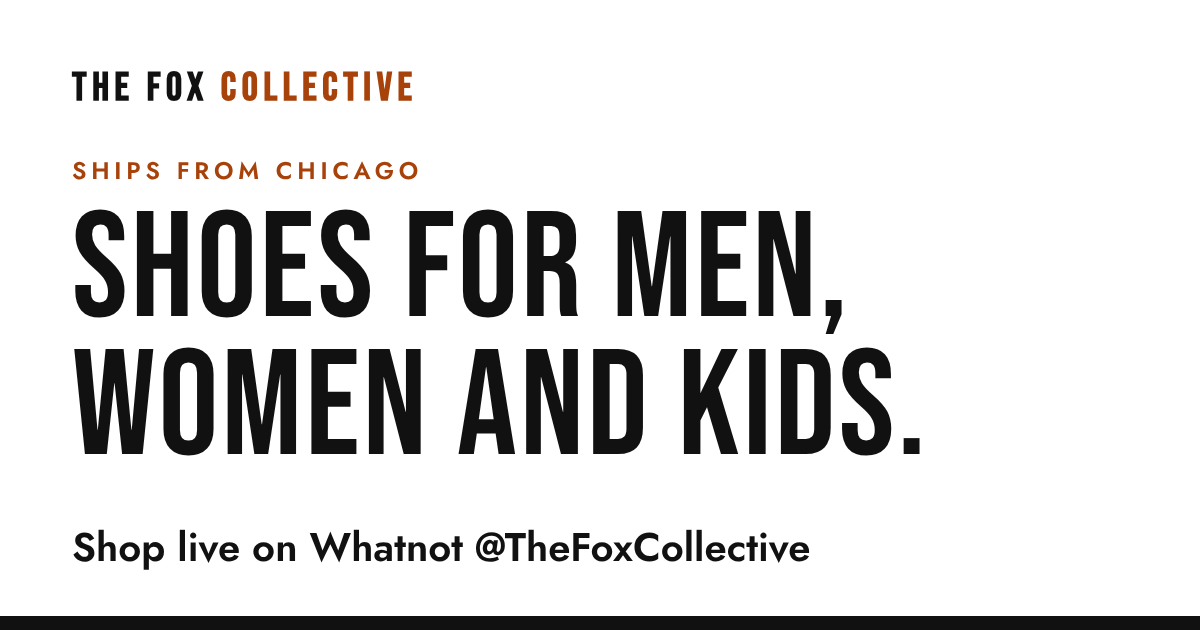
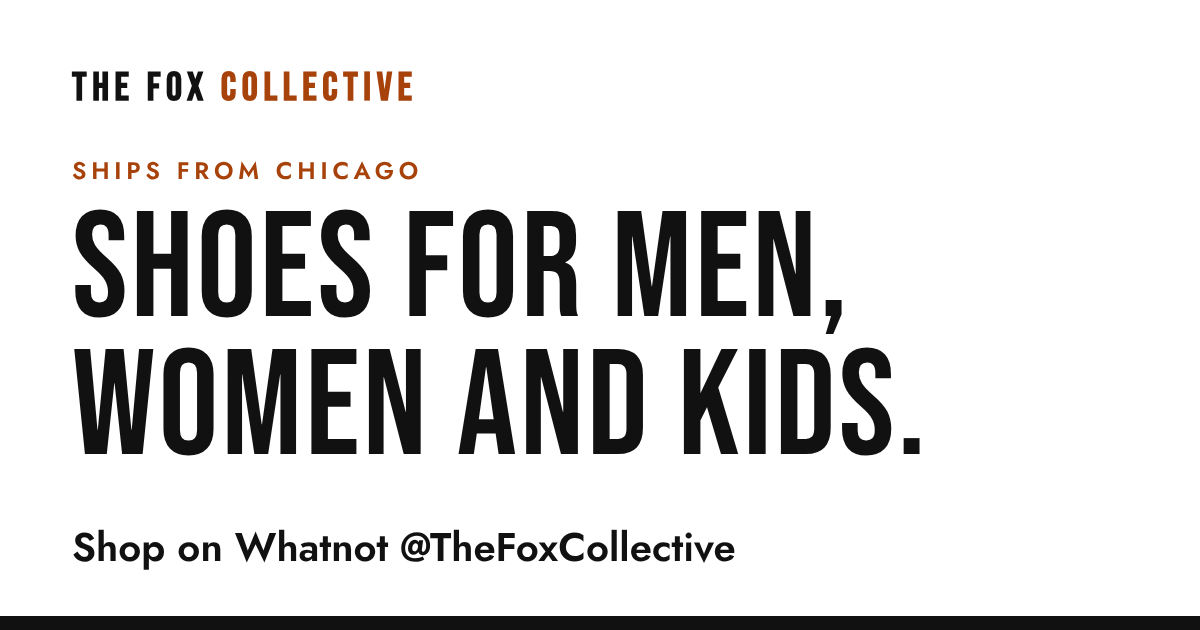
Front page, footer and search wording: Chicago footwear retailer, no location detail or show mentions
Claude-Session: https://claude.ai/code/session_013YMrY1SBmupQ3QgRcTJSum

Changed region(s): [[0.1233, 0.8444, 0.6783, 0.9048]]

diff --git a/product.html b/product.html
@@ -4,7 +4,7 @@
 <meta charset="utf-8">
 <meta name="viewport" content="width=device-width, initial-scale=1">
 <title>Shoes | The Fox Collective</title>
-<meta name="description" content="Sizes in stock at The Fox Collective. Sold live on Whatnot.">
+<meta name="description" content="Sizes in stock at The Fox Collective. New in the box, shipped from Chicago.">
 <link rel="canonical" href="https://foxcollective.org/shop.html">
 <meta name="theme-color" content="#ffffff">
 <link rel="icon" href="favicon.ico" sizes="48x48">
@@ -13,7 +13,7 @@
 <meta property="og:type" content="website">
 <meta property="og:site_name" content="The Fox Collective">
 <meta property="og:title" content="Shoes | The Fox Collective">
-<meta property="og:description" content="Sizes in stock at The Fox Collective. Sold live on Whatnot.">
+<meta property="og:description" content="Sizes in stock at The Fox Collective. New in the box, shipped from Chicago.">
 <meta property="og:url" content="https://foxcollective.org/shop.html">
 <meta property="og:image" content="https://foxcollective.org/img/og-home.png">
 <meta name="twitter:card" content="summary_large_image">
@@ -23,7 +23,7 @@
 </head>
 <body class="st" data-page="product">
 <a class="skip" href="#main">Skip to content</a>
-<div class="s-strip">Ships from Chicago. Live shows daily on Whatnot. <a href="https://www.whatnot.com/user/thefoxcollective" rel="noopener">Watch live</a></div>
+<div class="s-strip">New in the box. Ships from Chicago. <a href="https://www.whatnot.com/user/thefoxcollective" rel="noopener">Shop on Whatnot</a></div>
 <header class="s-hdr">
   <div class="w row">
     <a class="brand" href="index.html" aria-label="The Fox Collective, home"><img src="img/fox-mark.png" alt="" width="40" height="40">THE FOX <span>COLLECTIVE</span></a>
@@ -32,7 +32,7 @@
       <svg viewBox="0 0 24 24" fill="none" stroke="currentColor" stroke-width="2" aria-hidden="true"><circle cx="11" cy="11" r="7"/><path d="M20 20l-3.5-3.5"/></svg>
       <input id="s-q" type="search" name="q" placeholder="Search shoes and brands" autocomplete="off">
     </form>
-    <div class="s-links"><a href="https://www.whatnot.com/user/thefoxcollective" rel="noopener">Watch live</a><a href="careers.html">Careers</a></div>
+    <div class="s-links"><a href="https://www.whatnot.com/user/thefoxcollective" rel="noopener">Shop on Whatnot</a><a href="careers.html">Careers</a></div>
   </div>
   <nav class="s-nav" aria-label="Shop">
     <a href="shop.html" data-nav="all">All Shoes</a>
@@ -49,7 +49,7 @@
   <nav class="crumbs" aria-label="Breadcrumb"><a href="index.html">Home</a> / <a href="shop.html">All Shoes</a> / <a id="crumb-brand" href="shop.html"></a> / <span id="crumb-here"></span></nav>
   <div class="pd" id="pd"></div>
   <p class="none" id="pd-missing" hidden>That pair is no longer in stock. <a href="shop.html">See all shoes</a></p>
-  <p class="none" data-no-products hidden>Our shoes are sold live. <a href="https://www.whatnot.com/user/thefoxcollective" rel="noopener">Shop live on Whatnot</a></p>
+  <p class="none" data-no-products hidden>Our shoes are sold on Whatnot. <a href="https://www.whatnot.com/user/thefoxcollective" rel="noopener">Shop on Whatnot</a></p>
   <section class="blk" id="also" hidden aria-labelledby="h-also">
     <div class="hd"><h2 id="h-also">You May Also Like</h2></div>
     <ul class="grid rail5" id="rail-also"></ul>
@@ -60,11 +60,11 @@
 <footer class="s-foot">
   <div class="w">
     <div class="cols">
-      <div><a class="brand" href="index.html" style="min-height:0">THE FOX <span>COLLECTIVE</span></a><p>A live e-commerce company based in Chicago. Every order ships from our studio in Jefferson Park.</p></div>
+      <div><a class="brand" href="index.html" style="min-height:0">THE FOX <span>COLLECTIVE</span></a><p>The Fox Collective is a Chicago footwear retailer. Every pair is new, authentic and ships in its original box.</p></div>
       <div><h2>Shop</h2>
         <a href="shop.html?g=men">Men</a><a href="shop.html?g=women">Women</a><a href="shop.html?g=kids">Kids</a><a href="shop.html?sale=1">Sale</a><a href="shop.html">All Shoes</a>
       </div>
-      <div><h2>Company</h2><a href="careers.html">Careers</a><a href="https://www.whatnot.com/user/thefoxcollective" rel="noopener">Live on Whatnot</a></div>
+      <div><h2>Company</h2><a href="careers.html">Careers</a><a href="https://www.whatnot.com/user/thefoxcollective" rel="noopener">Whatnot</a></div>
     </div>
     <p class="fine">The Fox Collective, Chicago, IL. All sales happen on Whatnot at @TheFoxCollective.</p>
   </div>

diff --git a/index.html b/index.html
@@ -4,7 +4,7 @@
 <meta charset="utf-8">
 <meta name="viewport" content="width=device-width, initial-scale=1">
 <title>The Fox Collective | Shoes for men, women and kids</title>
-<meta name="description" content="The Fox Collective. Shoes for men, women and kids from the brands you know, new in the box and shipped from Chicago. Shop live on Whatnot.">
+<meta name="description" content="The Fox Collective is a Chicago retailer of new, authentic footwear from leading brands for men, women and kids.">
 <link rel="canonical" href="https://foxcollective.org/">
 <meta name="theme-color" content="#ffffff">
 <link rel="icon" href="favicon.ico" sizes="48x48">
@@ -13,7 +13,7 @@
 <meta property="og:type" content="website">
 <meta property="og:site_name" content="The Fox Collective">
 <meta property="og:title" content="The Fox Collective | Shoes for men, women and kids">
-<meta property="og:description" content="The Fox Collective. Shoes for men, women and kids from the brands you know, new in the box and shipped from Chicago. Shop live on Whatnot.">
+<meta property="og:description" content="The Fox Collective is a Chicago retailer of new, authentic footwear from leading brands for men, women and kids.">
 <meta property="og:url" content="https://foxcollective.org/">
 <meta property="og:image" content="https://foxcollective.org/img/og-home.png">
 <meta name="twitter:card" content="summary_large_image">
@@ -23,7 +23,7 @@
 </head>
 <body class="st" data-page="home">
 <a class="skip" href="#main">Skip to content</a>
-<div class="s-strip">Ships from Chicago. Live shows daily on Whatnot. <a href="https://www.whatnot.com/user/thefoxcollective" rel="noopener">Watch live</a></div>
+<div class="s-strip">New in the box. Ships from Chicago. <a href="https://www.whatnot.com/user/thefoxcollective" rel="noopener">Shop on Whatnot</a></div>
 <header class="s-hdr">
   <div class="w row">
     <a class="brand" href="index.html" aria-label="The Fox Collective, home"><img src="img/fox-mark.png" alt="" width="40" height="40">THE FOX <span>COLLECTIVE</span></a>
@@ -32,7 +32,7 @@
       <svg viewBox="0 0 24 24" fill="none" stroke="currentColor" stroke-width="2" aria-hidden="true"><circle cx="11" cy="11" r="7"/><path d="M20 20l-3.5-3.5"/></svg>
       <input id="s-q" type="search" name="q" placeholder="Search shoes and brands" autocomplete="off">
     </form>
-    <div class="s-links"><a href="https://www.whatnot.com/user/thefoxcollective" rel="noopener">Watch live</a><a href="careers.html">Careers</a></div>
+    <div class="s-links"><a href="https://www.whatnot.com/user/thefoxcollective" rel="noopener">Shop on Whatnot</a><a href="careers.html">Careers</a></div>
   </div>
   <nav class="s-nav" aria-label="Shop">
     <a href="shop.html" data-nav="all">All Shoes</a>
@@ -53,7 +53,7 @@
       <p class="sub">Shoes for men, women and kids from the brands you know. New in the box, shipped from Chicago.</p>
       <div class="cta">
         <a class="bt" href="shop.html" data-needs-products hidden>Shop all shoes</a>
-        <a class="bt line" href="https://www.whatnot.com/user/thefoxcollective" rel="noopener">Shop live on Whatnot</a>
+        <a class="bt line" href="https://www.whatnot.com/user/thefoxcollective" rel="noopener">Shop on Whatnot</a>
       </div>
     </div>
     <div class="pics" id="hero-pics" aria-hidden="true"></div>
@@ -104,11 +104,11 @@
 <footer class="s-foot">
   <div class="w">
     <div class="cols">
-      <div><a class="brand" href="index.html" style="min-height:0">THE FOX <span>COLLECTIVE</span></a><p>A live e-commerce company based in Chicago. Every order ships from our studio in Jefferson Park.</p></div>
+      <div><a class="brand" href="index.html" style="min-height:0">THE FOX <span>COLLECTIVE</span></a><p>The Fox Collective is a Chicago footwear retailer. Every pair is new, authentic and ships in its original box.</p></div>
       <div><h2>Shop</h2>
         <a href="shop.html?g=men">Men</a><a href="shop.html?g=women">Women</a><a href="shop.html?g=kids">Kids</a><a href="shop.html?sale=1">Sale</a><a href="shop.html">All Shoes</a>
       </div>
-      <div><h2>Company</h2><a href="careers.html">Careers</a><a href="https://www.whatnot.com/user/thefoxcollective" rel="noopener">Live on Whatnot</a></div>
+      <div><h2>Company</h2><a href="careers.html">Careers</a><a href="https://www.whatnot.com/user/thefoxcollective" rel="noopener">Whatnot</a></div>
     </div>
     <p class="fine">The Fox Collective, Chicago, IL. All sales happen on Whatnot at @TheFoxCollective.</p>
   </div>

diff --git a/shop.html b/shop.html
@@ -4,7 +4,7 @@
 <meta charset="utf-8">
 <meta name="viewport" content="width=device-width, initial-scale=1">
 <title>All Shoes | The Fox Collective</title>
-<meta name="description" content="Shop every pair in stock at The Fox Collective. Filter by brand, size and price. Sold live on Whatnot.">
+<meta name="description" content="Shop every pair in stock at The Fox Collective. Filter by brand, size and price.">
 <link rel="canonical" href="https://foxcollective.org/shop.html">
 <meta name="theme-color" content="#ffffff">
 <link rel="icon" href="favicon.ico" sizes="48x48">
@@ -13,7 +13,7 @@
 <meta property="og:type" content="website">
 <meta property="og:site_name" content="The Fox Collective">
 <meta property="og:title" content="All Shoes | The Fox Collective">
-<meta property="og:description" content="Shop every pair in stock at The Fox Collective. Filter by brand, size and price. Sold live on Whatnot.">
+<meta property="og:description" content="Shop every pair in stock at The Fox Collective. Filter by brand, size and price.">
 <meta property="og:url" content="https://foxcollective.org/shop.html">
 <meta property="og:image" content="https://foxcollective.org/img/og-home.png">
 <meta name="twitter:card" content="summary_large_image">
@@ -23,7 +23,7 @@
 </head>
 <body class="st" data-page="shop">
 <a class="skip" href="#main">Skip to content</a>
-<div class="s-strip">Ships from Chicago. Live shows daily on Whatnot. <a href="https://www.whatnot.com/user/thefoxcollective" rel="noopener">Watch live</a></div>
+<div class="s-strip">New in the box. Ships from Chicago. <a href="https://www.whatnot.com/user/thefoxcollective" rel="noopener">Shop on Whatnot</a></div>
 <header class="s-hdr">
   <div class="w row">
     <a class="brand" href="index.html" aria-label="The Fox Collective, home"><img src="img/fox-mark.png" alt="" width="40" height="40">THE FOX <span>COLLECTIVE</span></a>
@@ -32,7 +32,7 @@
       <svg viewBox="0 0 24 24" fill="none" stroke="currentColor" stroke-width="2" aria-hidden="true"><circle cx="11" cy="11" r="7"/><path d="M20 20l-3.5-3.5"/></svg>
       <input id="s-q" type="search" name="q" placeholder="Search shoes and brands" autocomplete="off">
     </form>
-    <div class="s-links"><a href="https://www.whatnot.com/user/thefoxcollective" rel="noopener">Watch live</a><a href="careers.html">Careers</a></div>
+    <div class="s-links"><a href="https://www.whatnot.com/user/thefoxcollective" rel="noopener">Shop on Whatnot</a><a href="careers.html">Careers</a></div>
   </div>
   <nav class="s-nav" aria-label="Shop">
     <a href="shop.html" data-nav="all">All Shoes</a>
@@ -76,7 +76,7 @@
       <ul class="grid" id="grid"></ul>
       <p class="none" id="none" hidden>No shoes match those filters.<button type="button" id="none-reset">Clear filters</button></p>
       <div class="more" id="more" hidden><p id="more-text"></p><button type="button" class="bt line" id="more-btn">Load more</button></div>
-      <p class="none" data-no-products hidden>Our shoes are sold live. <a href="https://www.whatnot.com/user/thefoxcollective" rel="noopener">Shop live on Whatnot</a></p>
+      <p class="none" data-no-products hidden>Our shoes are sold on Whatnot. <a href="https://www.whatnot.com/user/thefoxcollective" rel="noopener">Shop on Whatnot</a></p>
     </div>
   </div>
 </div>
@@ -85,11 +85,11 @@
 <footer class="s-foot">
   <div class="w">
     <div class="cols">
-      <div><a class="brand" href="index.html" style="min-height:0">THE FOX <span>COLLECTIVE</span></a><p>A live e-commerce company based in Chicago. Every order ships from our studio in Jefferson Park.</p></div>
+      <div><a class="brand" href="index.html" style="min-height:0">THE FOX <span>COLLECTIVE</span></a><p>The Fox Collective is a Chicago footwear retailer. Every pair is new, authentic and ships in its original box.</p></div>
       <div><h2>Shop</h2>
         <a href="shop.html?g=men">Men</a><a href="shop.html?g=women">Women</a><a href="shop.html?g=kids">Kids</a><a href="shop.html?sale=1">Sale</a><a href="shop.html">All Shoes</a>
       </div>
-      <div><h2>Company</h2><a href="careers.html">Careers</a><a href="https://www.whatnot.com/user/thefoxcollective" rel="noopener">Live on Whatnot</a></div>
+      <div><h2>Company</h2><a href="careers.html">Careers</a><a href="https://www.whatnot.com/user/thefoxcollective" rel="noopener">Whatnot</a></div>
     </div>
     <p class="fine">The Fox Collective, Chicago, IL. All sales happen on Whatnot at @TheFoxCollective.</p>
   </div>

diff --git a/careers.html b/careers.html
@@ -3,8 +3,8 @@
 <head>
 <meta charset="utf-8">
 <meta name="viewport" content="width=device-width, initial-scale=1">
-<title>Careers: live sales hosts in Chicago | The Fox Collective</title>
-<meta name="description" content="Live sales hosts in Chicago. $25 to $30 an hour plus commission, paid training, $1,000 sign-on bonus. First step is a 60-second video.">
+<title>Careers | The Fox Collective</title>
+<meta name="description" content="Careers at The Fox Collective in Chicago. See open roles and apply online.">
 <link rel="canonical" href="https://foxcollective.org/careers.html">
 <meta name="theme-color" content="#ffffff">
 <link rel="icon" href="favicon.ico" sizes="48x48">
@@ -12,8 +12,8 @@
 <link rel="apple-touch-icon" href="img/apple-touch-icon.png">
 <meta property="og:type" content="website">
 <meta property="og:site_name" content="The Fox Collective">
-<meta property="og:title" content="Careers: live sales hosts in Chicago | The Fox Collective">
-<meta property="og:description" content="Live sales hosts in Chicago. $25 to $30 an hour plus commission, paid training, $1,000 sign-on bonus. First step is a 60-second video.">
+<meta property="og:title" content="Careers | The Fox Collective">
+<meta property="og:description" content="Careers at The Fox Collective in Chicago. See open roles and apply online.">
 <meta property="og:url" content="https://foxcollective.org/careers.html">
 <meta property="og:image" content="https://foxcollective.org/img/og-hosts.png">
 <meta name="twitter:card" content="summary_large_image">
@@ -23,7 +23,7 @@
 </head>
 <body class="st" data-page="careers">
 <a class="skip" href="#main">Skip to content</a>
-<div class="s-strip">Ships from Chicago. Live shows daily on Whatnot. <a href="https://www.whatnot.com/user/thefoxcollective" rel="noopener">Watch live</a></div>
+<div class="s-strip">New in the box. Ships from Chicago. <a href="https://www.whatnot.com/user/thefoxcollective" rel="noopener">Shop on Whatnot</a></div>
 <header class="s-hdr">
   <div class="w row">
     <a class="brand" href="index.html" aria-label="The Fox Collective, home"><img src="img/fox-mark.png" alt="" width="40" height="40">THE FOX <span>COLLECTIVE</span></a>
@@ -32,7 +32,7 @@
       <svg viewBox="0 0 24 24" fill="none" stroke="currentColor" stroke-width="2" aria-hidden="true"><circle cx="11" cy="11" r="7"/><path d="M20 20l-3.5-3.5"/></svg>
       <input id="s-q" type="search" name="q" placeholder="Search shoes and brands" autocomplete="off">
     </form>
-    <div class="s-links"><a href="https://www.whatnot.com/user/thefoxcollective" rel="noopener">Watch live</a><a href="careers.html">Careers</a></div>
+    <div class="s-links"><a href="https://www.whatnot.com/user/thefoxcollective" rel="noopener">Shop on Whatnot</a><a href="careers.html">Careers</a></div>
   </div>
   <nav class="s-nav" aria-label="Shop">
     <a href="shop.html" data-nav="all">All Shoes</a>
@@ -245,11 +245,11 @@
 <footer class="s-foot">
   <div class="w">
     <div class="cols">
-      <div><a class="brand" href="index.html" style="min-height:0">THE FOX <span>COLLECTIVE</span></a><p>A live e-commerce company based in Chicago. Every order ships from our studio in Jefferson Park.</p></div>
+      <div><a class="brand" href="index.html" style="min-height:0">THE FOX <span>COLLECTIVE</span></a><p>The Fox Collective is a Chicago footwear retailer. Every pair is new, authentic and ships in its original box.</p></div>
       <div><h2>Shop</h2>
         <a href="shop.html?g=men">Men</a><a href="shop.html?g=women">Women</a><a href="shop.html?g=kids">Kids</a><a href="shop.html?sale=1">Sale</a><a href="shop.html">All Shoes</a>
       </div>
-      <div><h2>Company</h2><a href="careers.html">Careers</a><a href="https://www.whatnot.com/user/thefoxcollective" rel="noopener">Live on Whatnot</a></div>
+      <div><h2>Company</h2><a href="careers.html">Careers</a><a href="https://www.whatnot.com/user/thefoxcollective" rel="noopener">Whatnot</a></div>
     </div>
     <p class="fine">The Fox Collective, Chicago, IL. All sales happen on Whatnot at @TheFoxCollective.</p>
   </div>

diff --git a/404.html b/404.html
@@ -18,7 +18,7 @@
 <header>
   <div class="hdr">
     <a class="brand" href="/" aria-label="The Fox Collective, home">THE FOX <span>COLLECTIVE</span></a>
-    <div class="right"><a href="https://www.whatnot.com/user/thefoxcollective" rel="noopener">Watch live</a><a href="/careers.html"><b>Careers</b></a></div>
+    <div class="right"><a href="https://www.whatnot.com/user/thefoxcollective" rel="noopener">Shop on Whatnot</a><a href="/careers.html"><b>Careers</b></a></div>
   </div>
 </header>
 
@@ -36,8 +36,8 @@
 
 <footer class="foot">
   <div class="wrap cols">
-    <div><div class="brand" style="font-size:20px;min-height:0">THE FOX <span>COLLECTIVE</span></div><p class="mute about">A live e-commerce company based in Chicago. We ship every order from our studio in Jefferson Park.</p></div>
-    <div><h2>Company</h2><a href="/careers.html">Careers</a><a href="https://www.whatnot.com/user/thefoxcollective" rel="noopener">Live on Whatnot</a></div>
+    <div><div class="brand" style="font-size:20px;min-height:0">THE FOX <span>COLLECTIVE</span></div><p class="mute about">The Fox Collective is a Chicago footwear retailer. Every pair is new, authentic and ships in its original box.</p></div>
+    <div><h2>Company</h2><a href="/careers.html">Careers</a><a href="https://www.whatnot.com/user/thefoxcollective" rel="noopener">Whatnot</a></div>
   </div>
 </footer>
 </body>

diff --git a/store.js b/store.js
@@ -353,8 +353,8 @@
       price,
       el("h2", {}, ["Sizes in stock", el("small", { text: inStock.length + (inStock.length === 1 ? " size" : " sizes") })]),
       sizes,
-      el("div", { class: "buy" }, [el("a", { class: "bt block", href: WHATNOT, rel: "noopener", text: "Shop live on Whatnot" })]),
-      el("p", { class: "note", text: "We sell live on Whatnot as @TheFoxCollective. Sizes move fast during a show, so what you see here can sell out. Every pair is new in the box and ships from Chicago." }),
+      el("div", { class: "buy" }, [el("a", { class: "bt block", href: WHATNOT, rel: "noopener", text: "Shop on Whatnot" })]),
+      el("p", { class: "note", text: "We sell on Whatnot as @TheFoxCollective. Sizes move fast, so what you see here can sell out. Every pair is new in the box and ships from Chicago." }),
       el("dl", {}, [
         el("div", {}, [el("dt", { text: "Style code" }), el("dd", { text: p.sku })]),
         el("div", {}, [el("dt", { text: "Brand" }), el("dd", { text: p.brand })]),
